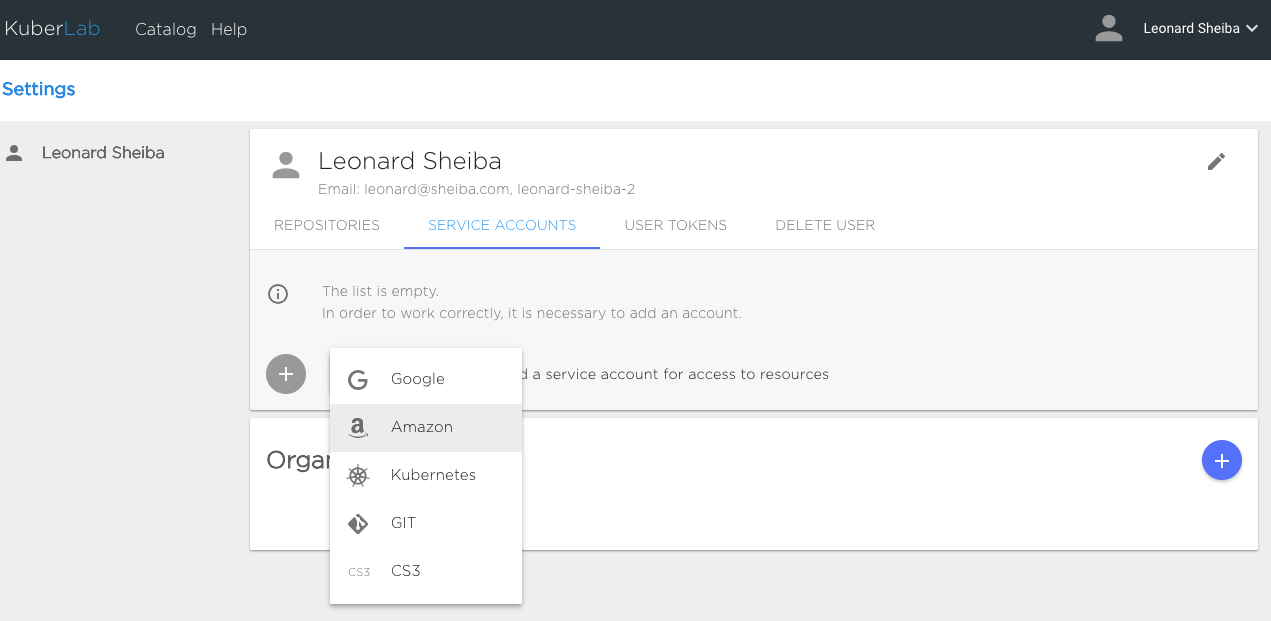
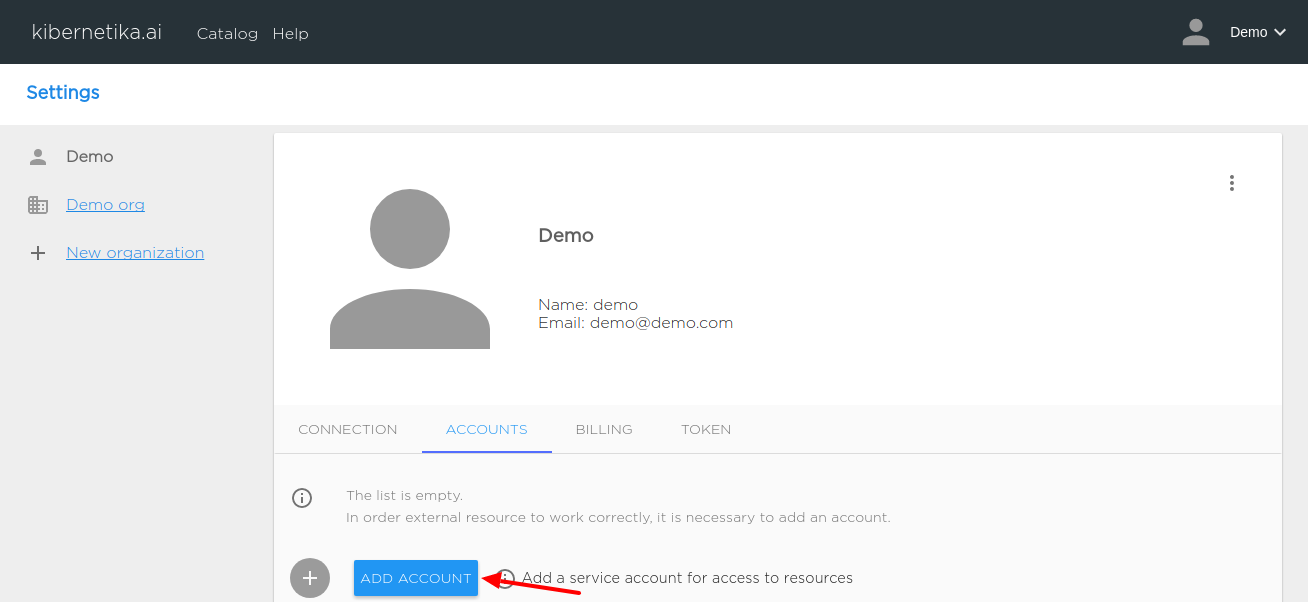
change images page setting and quickstart

diff --git a/docs/projects/create-new-project.md b/docs/projects/create-new-project.md
@@ -2,9 +2,9 @@ Project is the environment for development and lifecycle management of ML/AI app
 
 ### Creating empty project from UI interface
 1. Open your workspace and select projects tab.
-![](../img/project/create1.png)
+![](../img/project/new_project.png)
 2. Press "Create New Project" button or use context menu button to create a new project and choose one of the template to use for your new Project.
-![](../img/project/wizard-1.png)
+![](../img/project/proj_sample_templates.png)
 4. Set your project name. Valid name must be 63 characters or less and must begin and end with an lower case alphanumeric character ([a-z0-9]) with dashes (-) and lower case alphanumerics between.
 ![](../img/project/wizard-3.png)
 5. Make basic configuration of your project and select a ***Kibernetika Storage*** (/Resources/KibernetikaStorage.md) or a ***cluster storage*** (/Resources/Clusters.md) available for your cluster.

diff --git a/docs/settings/user.md b/docs/settings/user.md
@@ -1,7 +1,7 @@
 # User Settings
 To change personal info or configure access to external repositories and service account go to settings page.
 
-![](../img/settings/settings1.png)
+![](../img/settings/settings.png)
 
 # Repositories
 You can add  OAuth based connection to your external git repositories or to your google account. This is required if you are planning to create your own clusters or want to be able to connect your git repositories to your projects as a storage volume.
